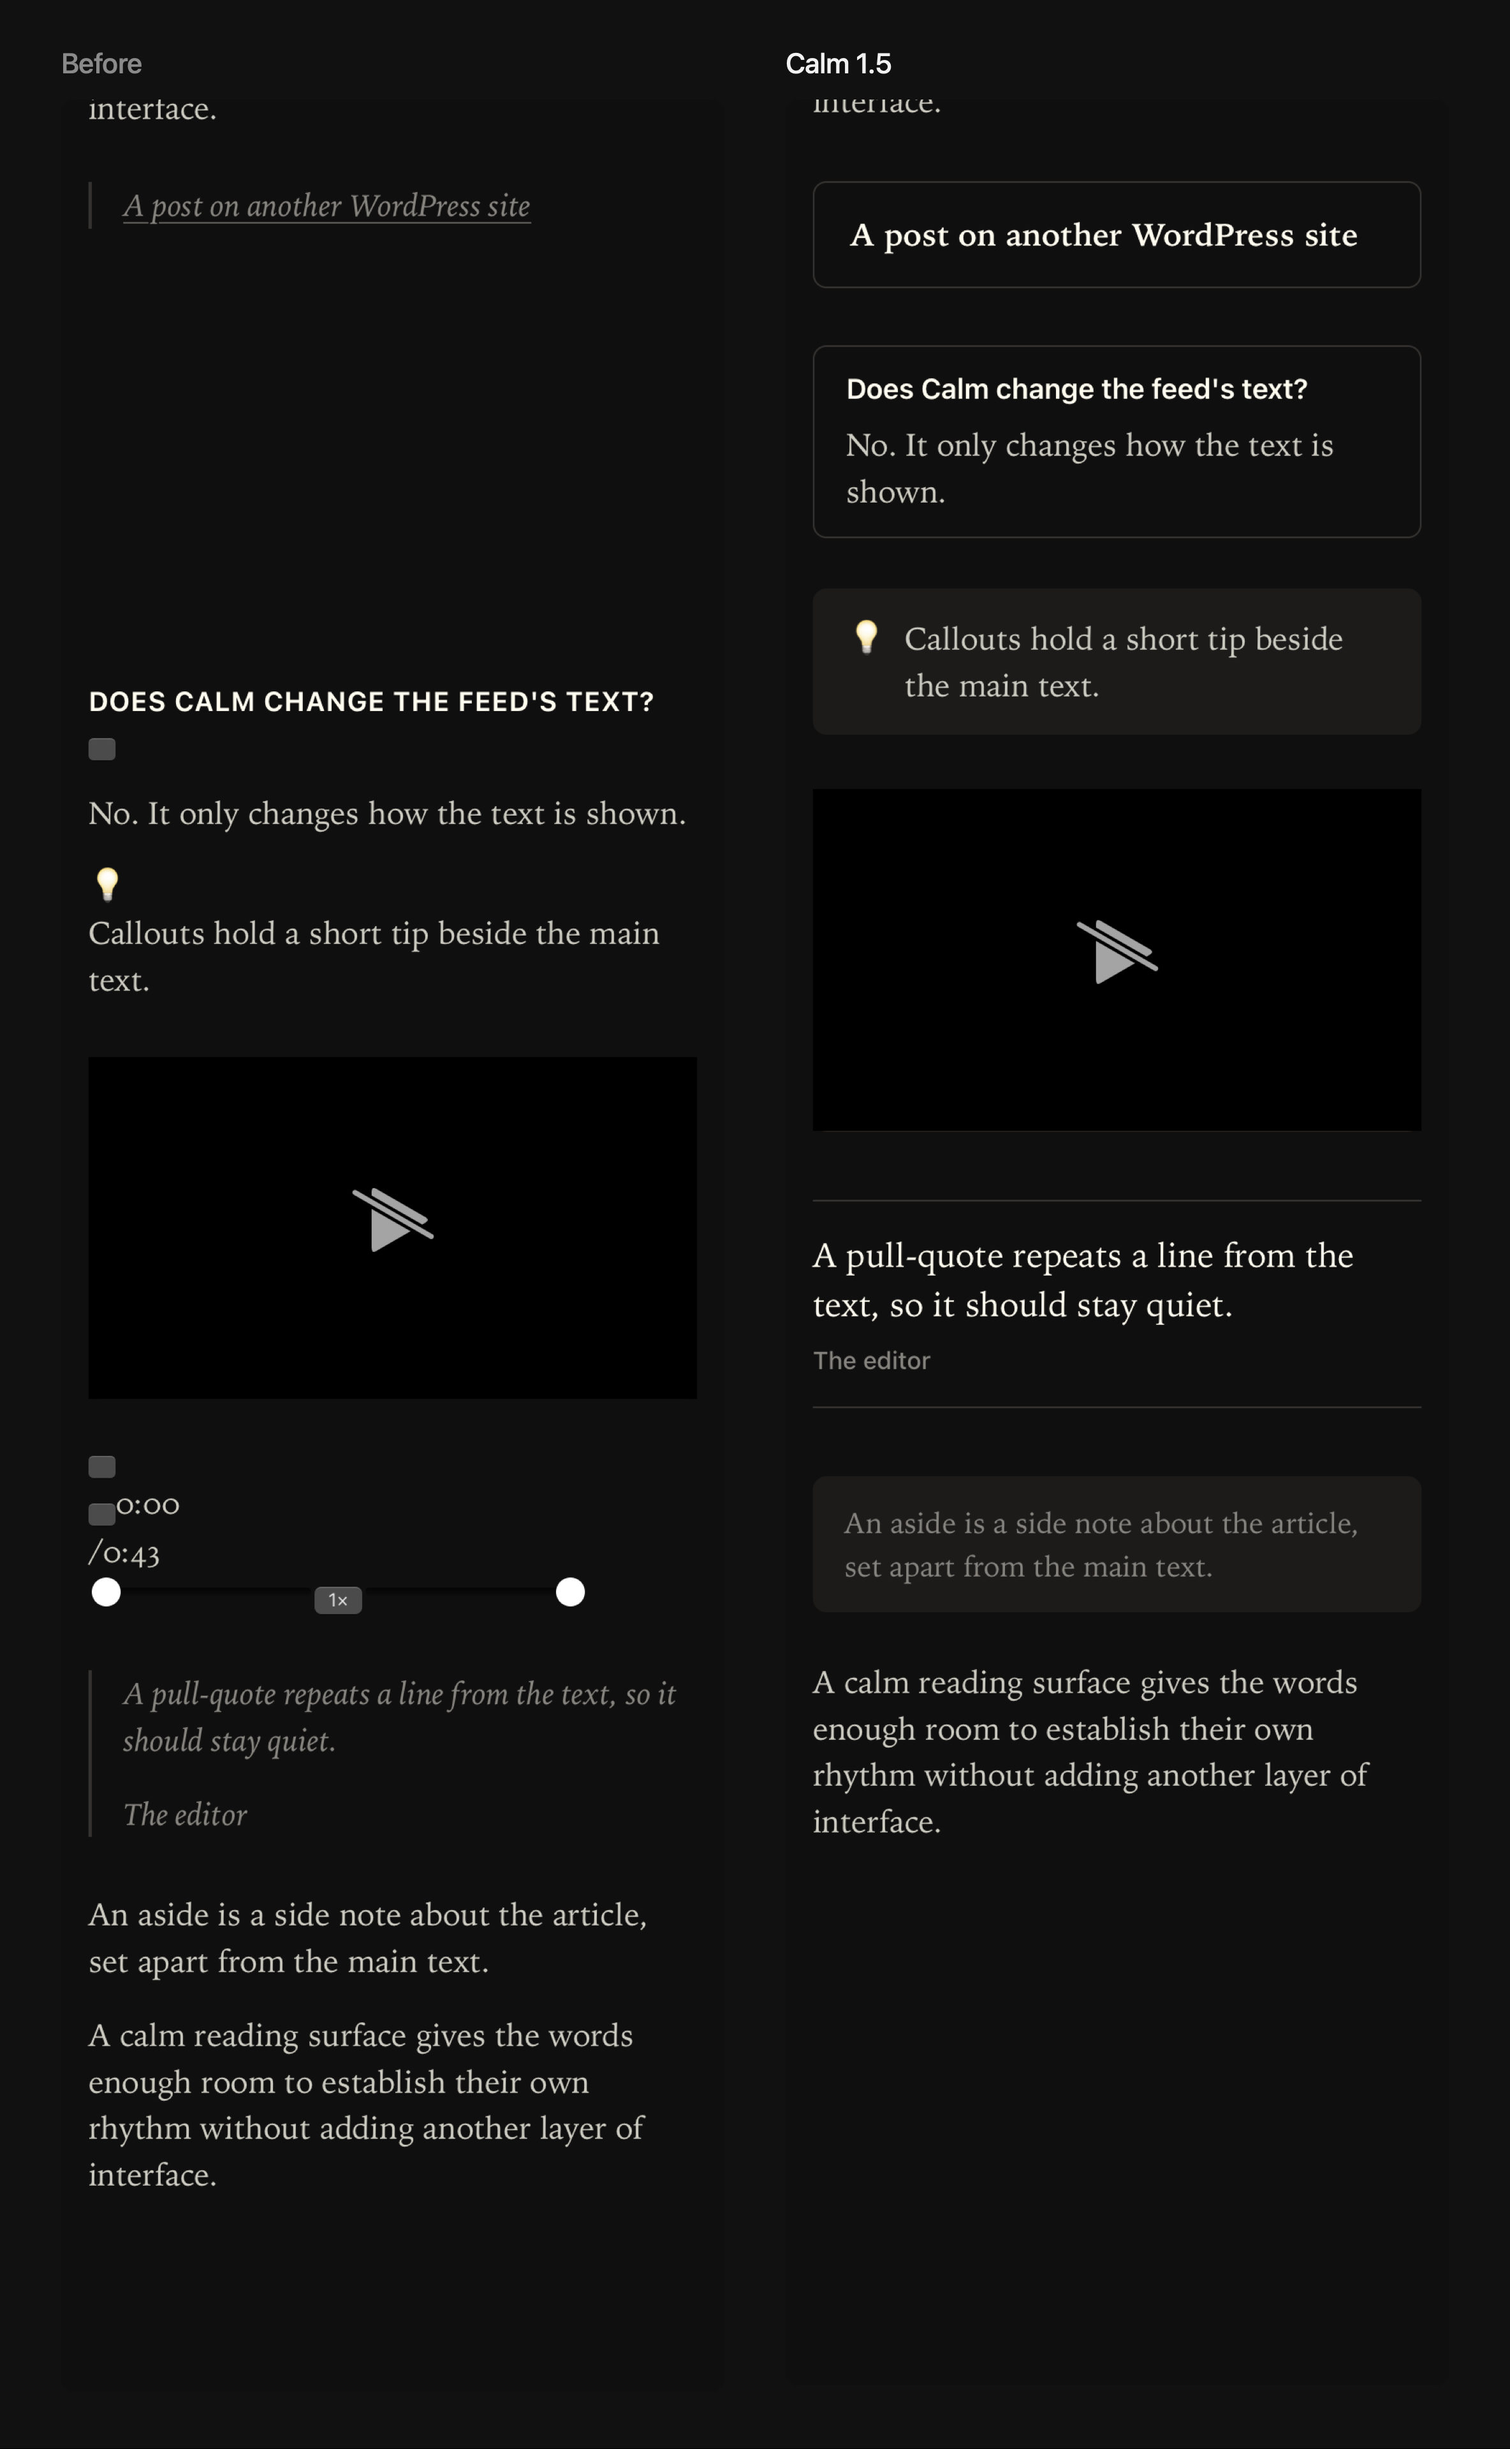
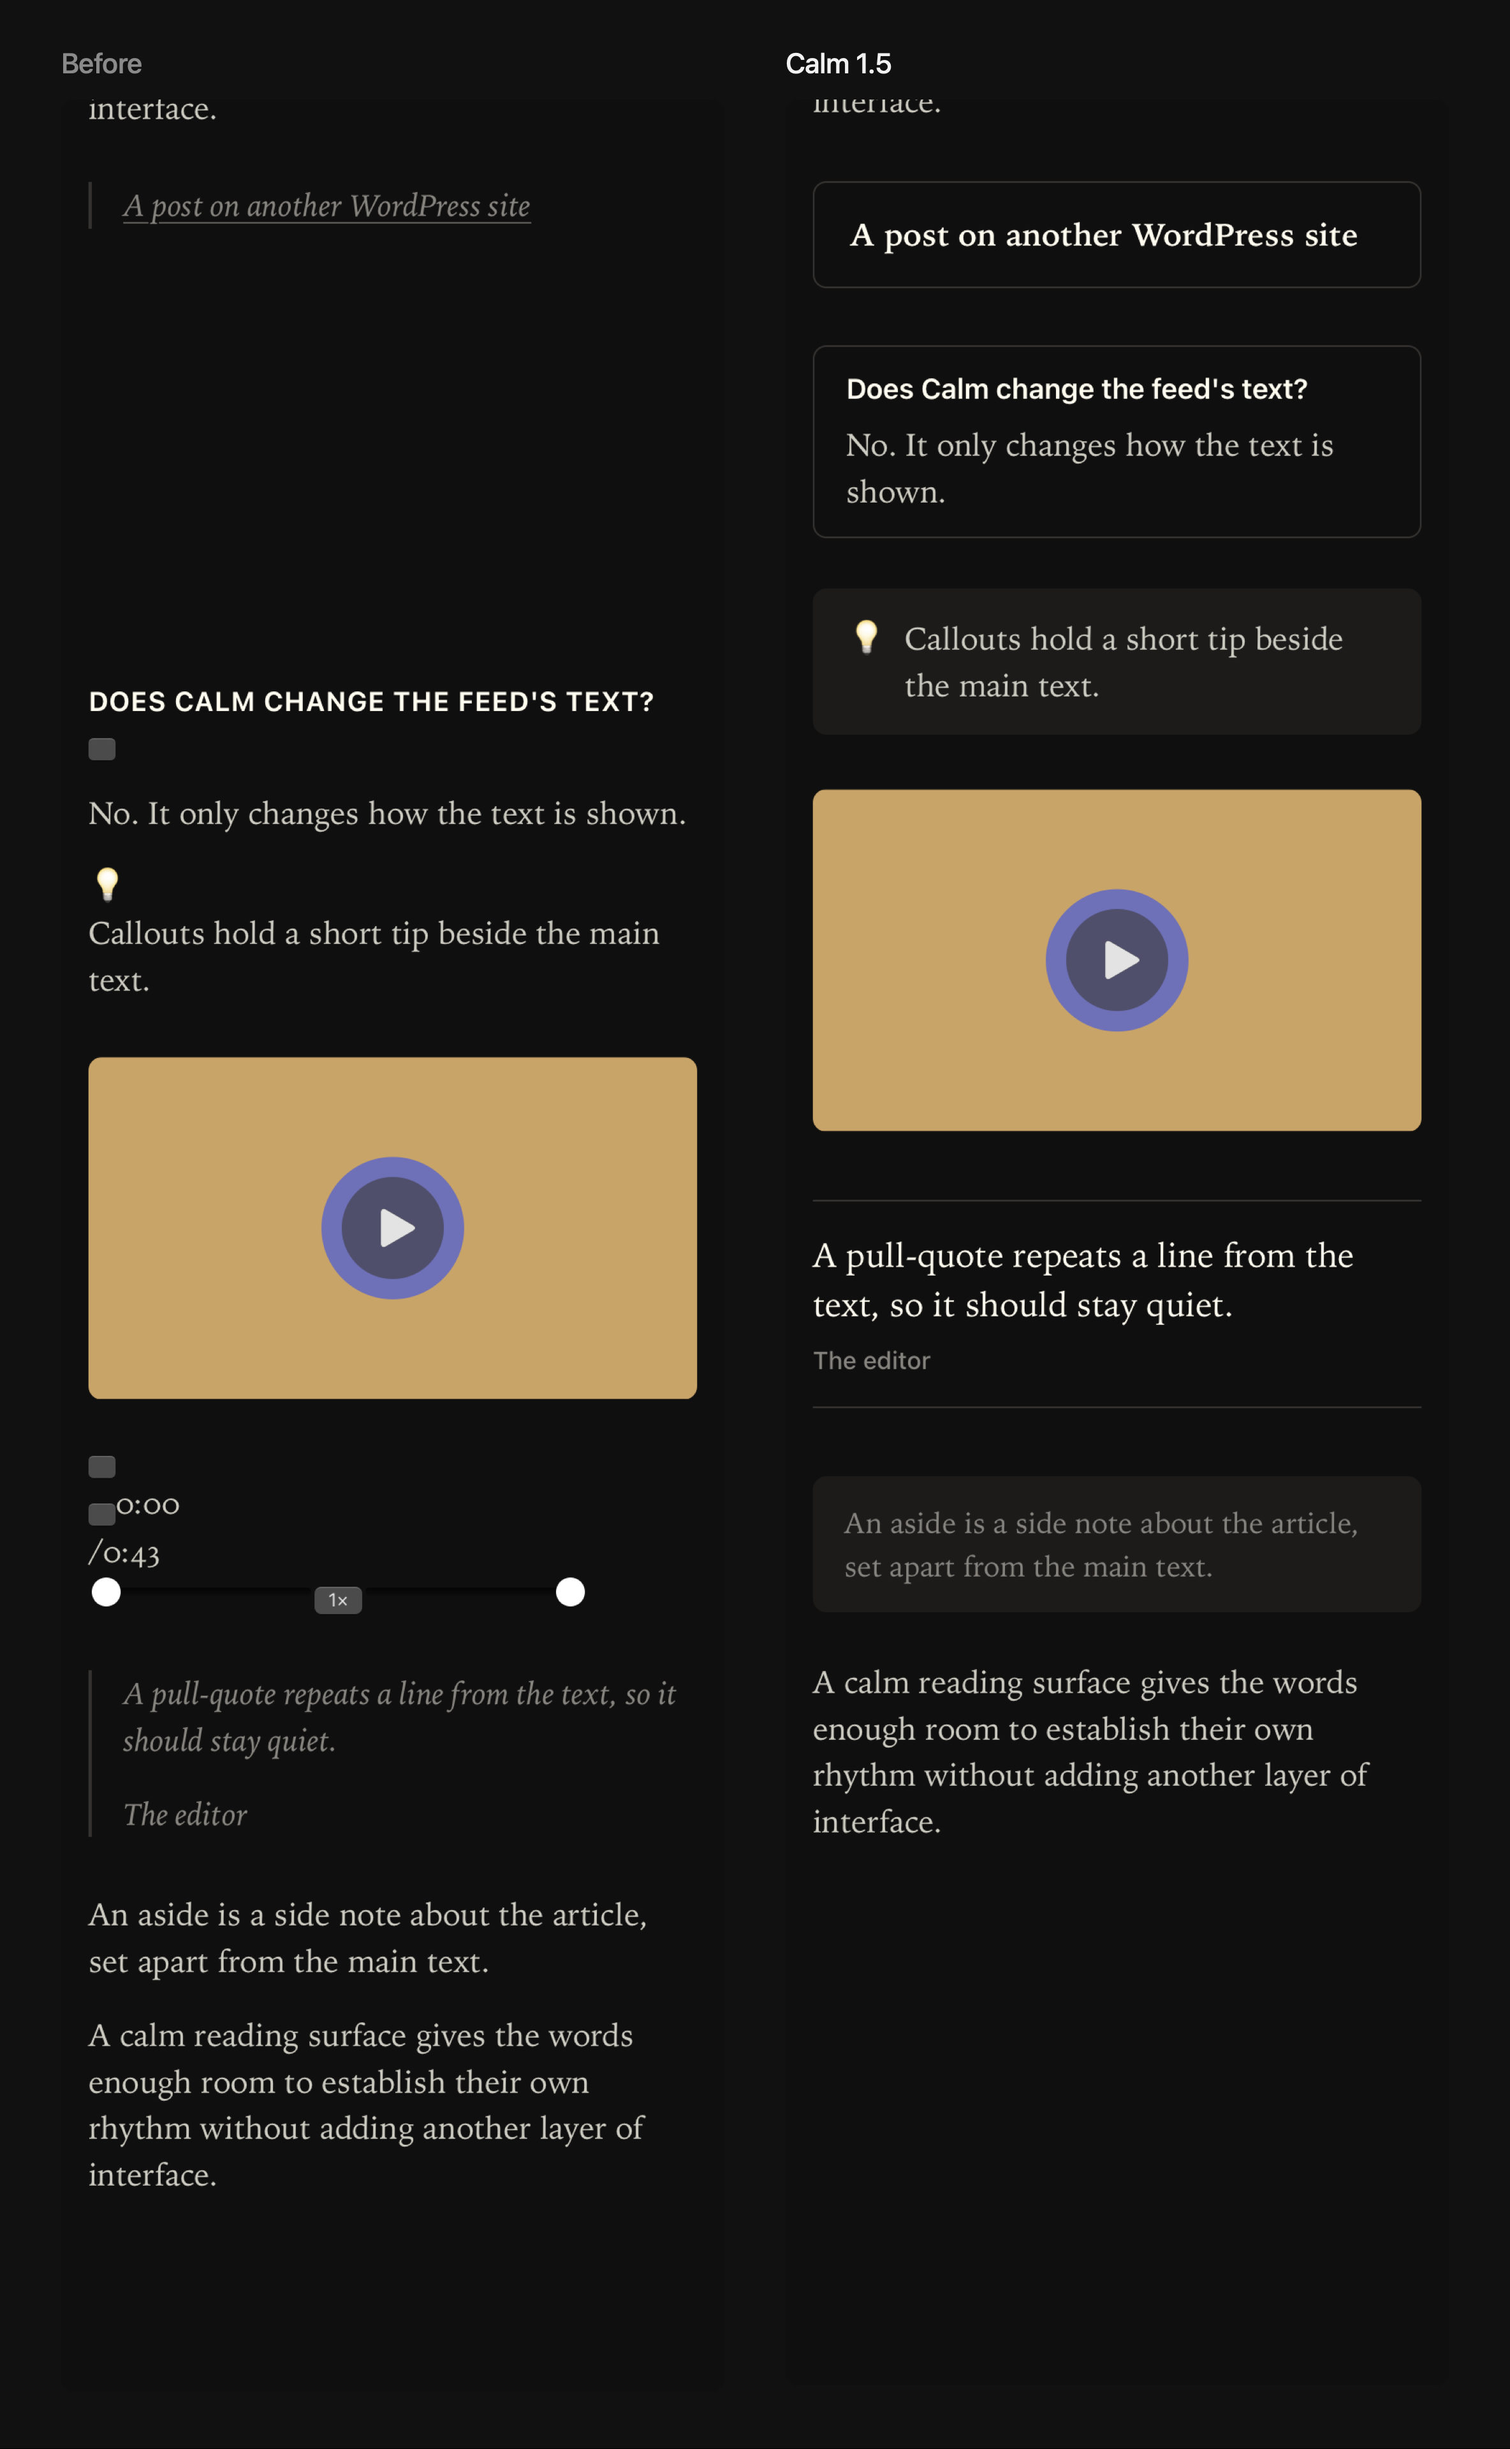
Show the fixture video's poster in the card images
The fixture's src="about:blank" drew WebKit's broken-video icon in the
"after" column. Without a src the poster shows, as a real card does.

Verified: re-rendered feed-cards, feed-cards-dark and pullquote-aside against 605b5b5 and opened them

Changed region(s): [[0.0312, 0.4062, 0.4688, 0.5938], [0.5312, 0.3125, 0.9688, 0.4688]]

diff --git a/assets/releases/unreleased/README.md b/assets/releases/unreleased/README.md
@@ -1,6 +1,6 @@
 # Before and after
 
-Made by `node scripts/before-after.mjs` against `origin/main`; the 1.5 parity images (macrumors-deal-gaps, duplicate-cover-sized, code-language, feed-*, pullquote-aside) against `605b5b5`, the commit before that work. At release, rename the folder's files to `<version>-<slug>.jpg` and move them up into `assets/releases/`.
+Made by `node scripts/before-after.mjs` against `605b5b5`. At release, rename the folder's files to `<version>-<slug>.jpg` and move them up into `assets/releases/`.
 
 ### footnote-popover
 
